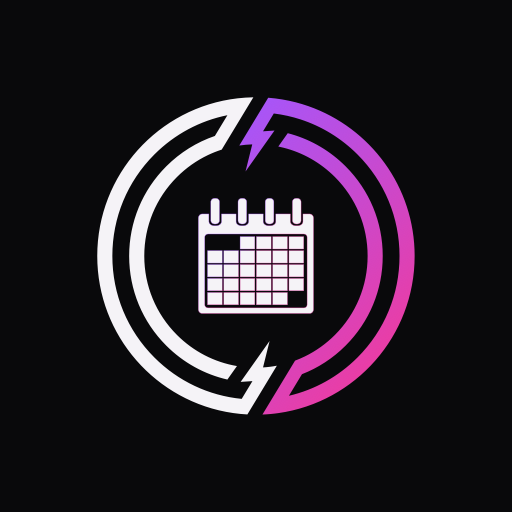
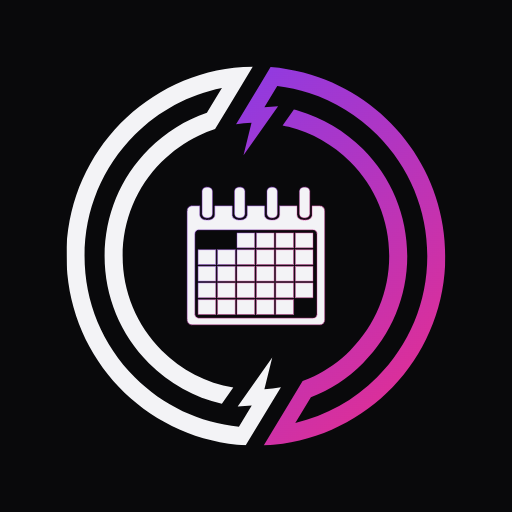
L'attesa ha la faccia dell'app, e l'icona della home smette di essere rotta
Tirando giu' il tabellone il marchio scende col dito e oltre la soglia
l'app si ricarica con il marchio che gira a tutto schermo. Lo stesso
schermo compare quando esce una versione nuova: ogni build stampa un
timbro, /versione lo dice con no-store, e il controllo confronta al
ritorno in primo piano e ogni cinque minuti - con la memoria per-sessione
che spegne il giro infinito se una cache mente.

L'icona di iOS aveva il marchio schiacciato nel quadrante in alto a
sinistra e mezza icona vuota. Rigenerate tutte e cinque dal vettore vero
di marchio.tsx, rasterizzato nel browser che e' l'unico renderer SVG di
casa: le maskable dedicate col logo al 56 per cento dentro la zona che
Android non ritaglia, ?v=2 ovunque perche' iOS e Android tengono la
vecchia icona in cache per indirizzo, e la cache del service worker
versionata per lo stesso motivo.

Non verificato: tiro e aggiornamento forzato mai provati su un telefono
vero; l'icona nuova si vede reinstallando l'app.

Changed region(s): [[0.125, 0.125, 0.875, 0.875]]

diff --git a/src/components/app-shell.tsx b/src/components/app-shell.tsx
@@ -19,6 +19,7 @@ import { Marchio } from "@/components/ui/marchio";
 import { usePathname } from "next/navigation";
 import * as React from "react";
 import { PannelloCambiaPassword } from "@/components/auth/cambia-la-mia-password";
+import { CaricamentoMarchio } from "@/components/ui/caricamento-marchio";
 import { ThemeToggle } from "@/components/ui/theme";
 import { cn } from "@/lib/utils";
 
@@ -66,6 +67,70 @@ export function AppShell({
   const pathname = usePathname();
   const [cambioPassword, setCambioPassword] = React.useState(false);
   const moduloEsci = React.useRef<HTMLFormElement>(null);
+
+  /* ------------------------------------------------ tira giu' e aggiorna
+   * Il gesto del telefono: dal bordo alto del contenuto si tira giu', il
+   * marchio scende ruotando con il dito, e oltre la soglia l'app si
+   * ricarica per intero. Gli ascoltatori stanno su addEventListener perche'
+   * serve `passive: false`: senza, il preventDefault che tiene fermo lo
+   * scorrimento durante il tiro non ha effetto. Il ricaricamento e' quello
+   * vero (location.reload), non un refresh morbido: chi tira giu' vuole la
+   * certezza di guardare dati freschi, non una via di mezzo. */
+  const principale = React.useRef<HTMLElement>(null);
+  const [tiro, setTiro] = React.useState(0);
+  // Vero mentre il dito e' giu': durante il tiro l'indicatore sta incollato
+  // al dito (niente transizione), al rilascio rientra morbido.
+  const [inTiro, setInTiro] = React.useState(false);
+  const [ricarico, setRicarico] = React.useState(false);
+  const statoTiro = React.useRef({ y0: 0, valore: 0, attivo: false });
+
+  React.useEffect(() => {
+    const el = principale.current;
+    if (!el) return;
+
+    const aggiorna = (v: number) => {
+      statoTiro.current.valore = v;
+      setTiro(v);
+    };
+    const inizio = (e: TouchEvent) => {
+      if (el.scrollTop > 0) return;
+      statoTiro.current = { y0: e.touches[0].clientY, valore: 0, attivo: true };
+      setInTiro(true);
+    };
+    const movimento = (e: TouchEvent) => {
+      if (!statoTiro.current.attivo) return;
+      const delta = e.touches[0].clientY - statoTiro.current.y0;
+      if (delta <= 0 || el.scrollTop > 0) {
+        if (statoTiro.current.valore > 0) aggiorna(0);
+        return;
+      }
+      e.preventDefault();
+      // Meta' del dito: il tiro deve costare un po', o parte per sbaglio.
+      aggiorna(Math.min(delta * 0.45, 96));
+    };
+    const fine = () => {
+      if (!statoTiro.current.attivo) return;
+      statoTiro.current.attivo = false;
+      setInTiro(false);
+      if (statoTiro.current.valore >= 64) {
+        setRicarico(true);
+        window.location.reload();
+      } else {
+        aggiorna(0);
+      }
+    };
+
+    el.addEventListener("touchstart", inizio, { passive: true });
+    el.addEventListener("touchmove", movimento, { passive: false });
+    el.addEventListener("touchend", fine);
+    el.addEventListener("touchcancel", fine);
+    return () => {
+      el.removeEventListener("touchstart", inizio);
+      el.removeEventListener("touchmove", movimento);
+      el.removeEventListener("touchend", fine);
+      el.removeEventListener("touchcancel", fine);
+    };
+  }, []);
 
   const barra = sections.length > 1;
 
@@ -235,13 +300,38 @@ export function AppShell({
         onClose={() => setCambioPassword(false)}
       />
 
+      {/* Il marchio che scende col dito: compare solo durante il tiro, e la
+          transizione c'e' solo al rilascio — seguendo il dito deve stare
+          incollato, non rincorrerlo. */}
+      {tiro > 0 && !ricarico ? (
+        <div
+          aria-hidden
+          className={cn(
+            "pointer-events-none fixed left-1/2 top-14 z-40",
+            !inTiro && "transition-transform",
+          )}
+          style={{
+            transform: `translate(-50%, ${tiro - 48}px) rotate(${tiro * 2.4}deg)`,
+            opacity: Math.min(tiro / 64, 1),
+          }}
+        >
+          <div className="grid size-10 place-items-center rounded-full border border-border bg-surface shadow-float">
+            <Marchio className="size-6 text-text" />
+          </div>
+        </div>
+      ) : null}
+      {ricarico ? <CaricamentoMarchio messaggio="Aggiorno…" /> : null}
+
       {/* min-h-0 flex-1: il figlio prende lo spazio rimasto senza sforare
           l'altezza dell'intestazione, cosa che h-full farebbe. */}
       {/* Qui dentro scorre tutto. La navigazione in basso sta *dopo*, nel
           flusso: si prende il suo spazio da sola e questa area si accorcia di
           conseguenza, quindi non serve nessuno spazio in fondo scritto a mano
           — quello sbagliava ogni volta che la navigazione cambiava forma. */}
-      <main className="min-h-0 flex-1 overflow-y-auto">
+      {/* overscroll-y-contain: il tiro e' nostro, quello del browser resta
+          fuori — due spie di ricaricamento per lo stesso gesto sono una di
+          troppo. */}
+      <main ref={principale} className="min-h-0 flex-1 overflow-y-auto overscroll-y-contain">
         <div className="mx-auto w-full max-w-[100rem] px-4 py-5 sm:px-6 sm:py-7">
           {children}
         </div>

diff --git a/src/components/controllo-versione.tsx b/src/components/controllo-versione.tsx
@@ -1,0 +1,71 @@
+"use client";
+
+import * as React from "react";
+import { CaricamentoMarchio } from "@/components/ui/caricamento-marchio";
+
+/** La versione con cui questo bundle è stato costruito. Inline alla build:
+ *  ogni deploy ne stampa una diversa, e un'app aperta da prima se la porta
+ *  dietro finché non si ricarica. */
+const VERSIONE = process.env.NEXT_PUBLIC_VERSIONE;
+
+/** Se là fuori c'è una versione più nuova, l'app si ricarica da sola.
+ *
+ *  Senza, chi tiene l'app installata sul telefono resta sulla versione del
+ *  giorno in cui l'ha aperta: i pezzi nuovi arrivano solo quando gli va di
+ *  chiudere e riaprire, e nel frattempo un bundle vecchio può chiedere al
+ *  server cose che non esistono più. Il controllo gira quando l'app torna
+ *  in primo piano — il momento tipico in cui è rimasta aperta da ieri — e
+ *  ogni cinque minuti.
+ *
+ *  Il giro infinito è l'unico guasto serio possibile qui: se dopo la
+ *  ricarica la versione remota risultasse ancora diversa (una cache che
+ *  mente), senza memoria si ricaricherebbe per sempre. Per questo ogni
+ *  versione si tenta una volta sola per sessione. */
+export function ControlloVersione() {
+  const [nuova, setNuova] = React.useState(false);
+
+  React.useEffect(() => {
+    if (!VERSIONE || process.env.NODE_ENV !== "production") return;
+    let smontato = false;
+
+    const controlla = async () => {
+      try {
+        const risposta = await fetch("/versione", { cache: "no-store" });
+        if (!risposta.ok) return;
+        const remota = (await risposta.text()).trim();
+        if (smontato || !remota || remota === VERSIONE) return;
+
+        const chiave = "denkishift-versione-provata";
+        try {
+          if (sessionStorage.getItem(chiave) === remota) return;
+          sessionStorage.setItem(chiave, remota);
+        } catch {
+          // Navigazione privata senza storage: meglio rischiare un giro in
+          // piu' che non aggiornarsi mai.
+        }
+
+        setNuova(true);
+        // Un respiro perche' il marchio compaia davvero prima del salto:
+        // una ricarica a schermo ancora vecchio sembra un guasto.
+        setTimeout(() => window.location.reload(), 700);
+      } catch {
+        // Niente rete: se ne riparla al prossimo giro.
+      }
+    };
+
+    const alRitorno = () => {
+      if (document.visibilityState === "visible") controlla();
+    };
+    const giro = setInterval(controlla, 5 * 60 * 1000);
+    document.addEventListener("visibilitychange", alRitorno);
+    return () => {
+      smontato = true;
+      clearInterval(giro);
+      document.removeEventListener("visibilitychange", alRitorno);
+    };
+  }, []);
+
+  return nuova ? (
+    <CaricamentoMarchio messaggio="C'è una versione nuova: la apro." />
+  ) : null;
+}

diff --git a/src/app/layout.tsx b/src/app/layout.tsx
@@ -1,6 +1,7 @@
 import type { Metadata, Viewport } from "next";
 import { Inter } from "next/font/google";
 import { Toaster } from "sonner";
+import { ControlloVersione } from "@/components/controllo-versione";
 import { ServiceWorker } from "@/components/service-worker";
 import { ThemeProvider } from "@/components/ui/theme";
 import "./globals.css";
@@ -24,11 +25,17 @@ export const metadata: Metadata = {
   manifest: "/manifest.webmanifest",
   applicationName: NOME_PRODOTTO,
   icons: {
+    // `?v=2` non e' decorazione: iOS e Android tengono la vecchia icona in
+    // cache per indirizzo, e la 180 e' stata rigenerata il 31 agosto 2026
+    // perche' aveva il marchio schiacciato in un angolo. Senza il suffisso,
+    // chi l'ha gia' vista si terrebbe quella rotta.
     icon: [
-      { url: "/icone/icona-192.png", sizes: "192x192", type: "image/png" },
-      { url: "/icone/icona-512.png", sizes: "512x512", type: "image/png" },
+      { url: "/icone/icona-192.png?v=2", sizes: "192x192", type: "image/png" },
+      { url: "/icone/icona-512.png?v=2", sizes: "512x512", type: "image/png" },
     ],
-    apple: [{ url: "/icone/icona-180.png", sizes: "180x180", type: "image/png" }],
+    apple: [
+      { url: "/icone/icona-180.png?v=2", sizes: "180x180", type: "image/png" },
+    ],
   },
   // iOS non legge il manifest: lo schermo intero e il nome sotto l'icona si
   // chiedono con questi meta tag, non con il file.
@@ -59,6 +66,7 @@ export default function RootLayout({ children }: LayoutProps<"/">) {
         <ThemeProvider>
           {children}
           <ServiceWorker />
+          <ControlloVersione />
           <Toaster
             position="top-center"
             toastOptions={{

diff --git a/src/components/ui/caricamento-marchio.tsx b/src/components/ui/caricamento-marchio.tsx
@@ -1,0 +1,26 @@
+import { Marchio } from "@/components/ui/marchio";
+
+/** L'attesa con la faccia dell'app: il marchio che gira su tutto lo schermo.
+ *
+ *  Lo usano i due momenti in cui l'app si ricarica per intero — il
+ *  trascinamento in giù del tabellone e l'arrivo di una versione nuova — e
+ *  per questo copre tutto, intestazione compresa: sotto sta succedendo un
+ *  ricaricamento vero, e lasciare cliccabile quello che sta per sparire
+ *  sarebbe una promessa non mantenuta.
+ *
+ *  Chi ha chiesto meno movimento non riceve il giro: il marchio pulsa
+ *  appena, che dice «sto lavorando» senza girare. */
+export function CaricamentoMarchio({ messaggio }: { messaggio?: string }) {
+  return (
+    <div
+      role="status"
+      aria-live="polite"
+      className="fixed inset-0 z-[60] grid place-items-center bg-canvas"
+    >
+      <div className="flex flex-col items-center gap-4">
+        <Marchio className="size-16 animate-girata text-text motion-reduce:animate-[skeleton-pulse_1.6s_ease-in-out_infinite]" />
+        <p className="text-[13px] text-muted">{messaggio ?? "Un attimo…"}</p>
+      </div>
+    </div>
+  );
+}

diff --git a/src/app/versione/route.ts b/src/app/versione/route.ts
@@ -1,0 +1,21 @@
+/** La versione pubblicata, per chi ha l'app aperta da prima.
+ *
+ *  `NEXT_PUBLIC_VERSIONE` nasce in next.config.ts al momento della build:
+ *  ogni deploy ne ha una sua, identica nel server e nei bundle del browser.
+ *  Un'app rimasta aperta confronta la propria con questa (vedi
+ *  components/controllo-versione.tsx): se non coincidono, là fuori c'è una
+ *  versione più nuova e ci si ricarica.
+ *
+ *  `no-store` fino in fondo: una risposta messa in cache direbbe per sempre
+ *  la versione del giorno in cui è stata salvata, cioè esattamente il
+ *  contrario del suo mestiere. */
+export const dynamic = "force-dynamic";
+
+export async function GET() {
+  return new Response(process.env.NEXT_PUBLIC_VERSIONE ?? "0", {
+    headers: {
+      "content-type": "text/plain; charset=utf-8",
+      "cache-control": "no-store",
+    },
+  });
+}

diff --git a/next.config.ts b/next.config.ts
@@ -35,6 +35,15 @@ const nextConfig: NextConfig = {
   // e' un modo di sapere in fretta quali falle provare.
   poweredByHeader: false,
 
+  // Il timbro della build, identico nel server e nel browser: e' quello che
+  // permette a un'app rimasta aperta di accorgersi che e' uscita una
+  // versione nuova (app/versione/route.ts + components/controllo-versione).
+  // Calcolato qui perche' next.config gira una volta alla build e il valore
+  // viene scolpito nei bundle: a runtime non cambia piu'.
+  env: {
+    NEXT_PUBLIC_VERSIONE: Date.now().toString(36),
+  },
+
   async headers() {
     return [{ source: "/:path*", headers: INTESTAZIONI }];
   },

diff --git a/src/app/globals.css b/src/app/globals.css
@@ -238,6 +238,15 @@
   --animate-rise: rise 0.28s cubic-bezier(0.22, 0.61, 0.36, 1) both;
   --animate-pop: pop 0.18s cubic-bezier(0.22, 0.61, 0.36, 1) both;
   --animate-sheet-up: sheet-up 0.3s cubic-bezier(0.22, 0.61, 0.36, 1) both;
+  /* Il marchio che gira: l'attesa dell'app ha la faccia dell'app. Lineare
+     apposta — un giro che accelera e frena sembra un giro che inciampa. */
+  --animate-girata: girata 1.1s linear infinite;
+}
+
+@keyframes girata {
+  to {
+    transform: rotate(360deg);
+  }
 }
 
 @keyframes fade-in {

diff --git a/public/sw.js b/public/sw.js
@@ -9,7 +9,7 @@
  * Quello che fa: tiene in cache i file statici (che sono immutabili e hanno
  * l'impronta nel nome) e rende l'app installabile.
  */
-const VERSIONE = "turni-v1";
+const VERSIONE = "turni-v2";
 const OFFLINE = "/offline.html";
 
 const PRECARICATI = [OFFLINE, "/icone/icona-192.png", "/manifest.webmanifest"];

diff --git a/docs/07-diario.md b/docs/07-diario.md
@@ -9,6 +9,29 @@ ricostruite dalla storia dei commit.
 
 ---
 
+## 31 agosto 2026
+
+**L'attesa ha la faccia dell'app, e l'icona sulla home smette di essere rotta**
+Tre pezzi chiesti da Nicola. Tirando giù il tabellone dal bordo alto il
+marchio scende col dito, ruota, e oltre la soglia l'app si ricarica per
+intero con il marchio che gira a tutto schermo (`caricamento-marchio.tsx`;
+`overscroll-y-contain` tiene fuori la spia del browser, che sarebbe stata la
+seconda per lo stesso gesto). Lo stesso schermo compare quando esce una
+versione nuova: ogni build stampa un timbro in `NEXT_PUBLIC_VERSIONE`
+(next.config), `/versione` lo dice al mondo con `no-store`, e
+`controllo-versione.tsx` confronta al ritorno in primo piano e ogni cinque
+minuti — se differiscono, marchio e ricarica, con la memoria per-sessione
+che impedisce il giro infinito se una cache mente. E l'icona della home:
+la 180 di iOS aveva il marchio schiacciato nel quadrante in alto a sinistra
+con mezza icona vuota. Rigenerate tutte e cinque dal vettore vero di
+`marchio.tsx` — rasterizzato nel browser, che è l'unico renderer SVG di
+casa — con le maskable dedicate (logo al 56%%, dentro la zona che Android
+non ritaglia) e `?v=2` su manifest e meta perché iOS e Android tengono la
+vecchia icona in cache per indirizzo. Cache del service worker a `turni-v2`
+per lo stesso motivo. Non verificato: il tiro e l'aggiornamento forzato non
+sono stati provati su un telefono vero, e l'icona nuova sulla home si vede
+solo reinstallando l'app.
+
 ## 30 agosto 2026
 
 **La Disponibilità diventa una scelta, e la Supervisione smette di mostrare i fantasmi**
